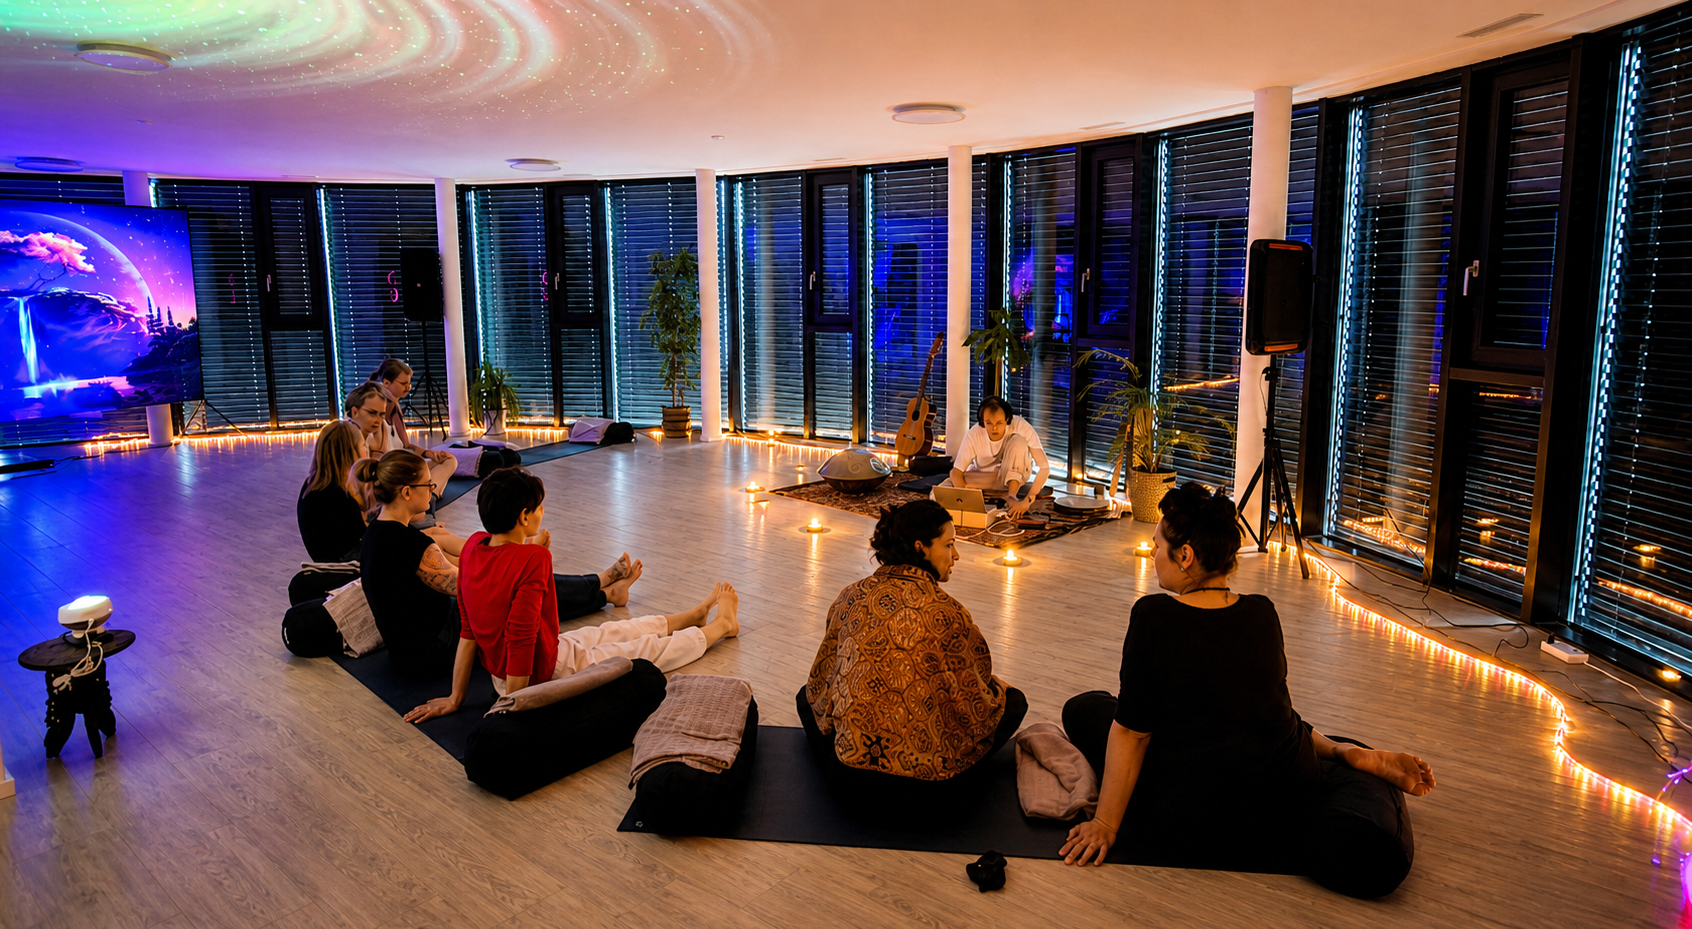
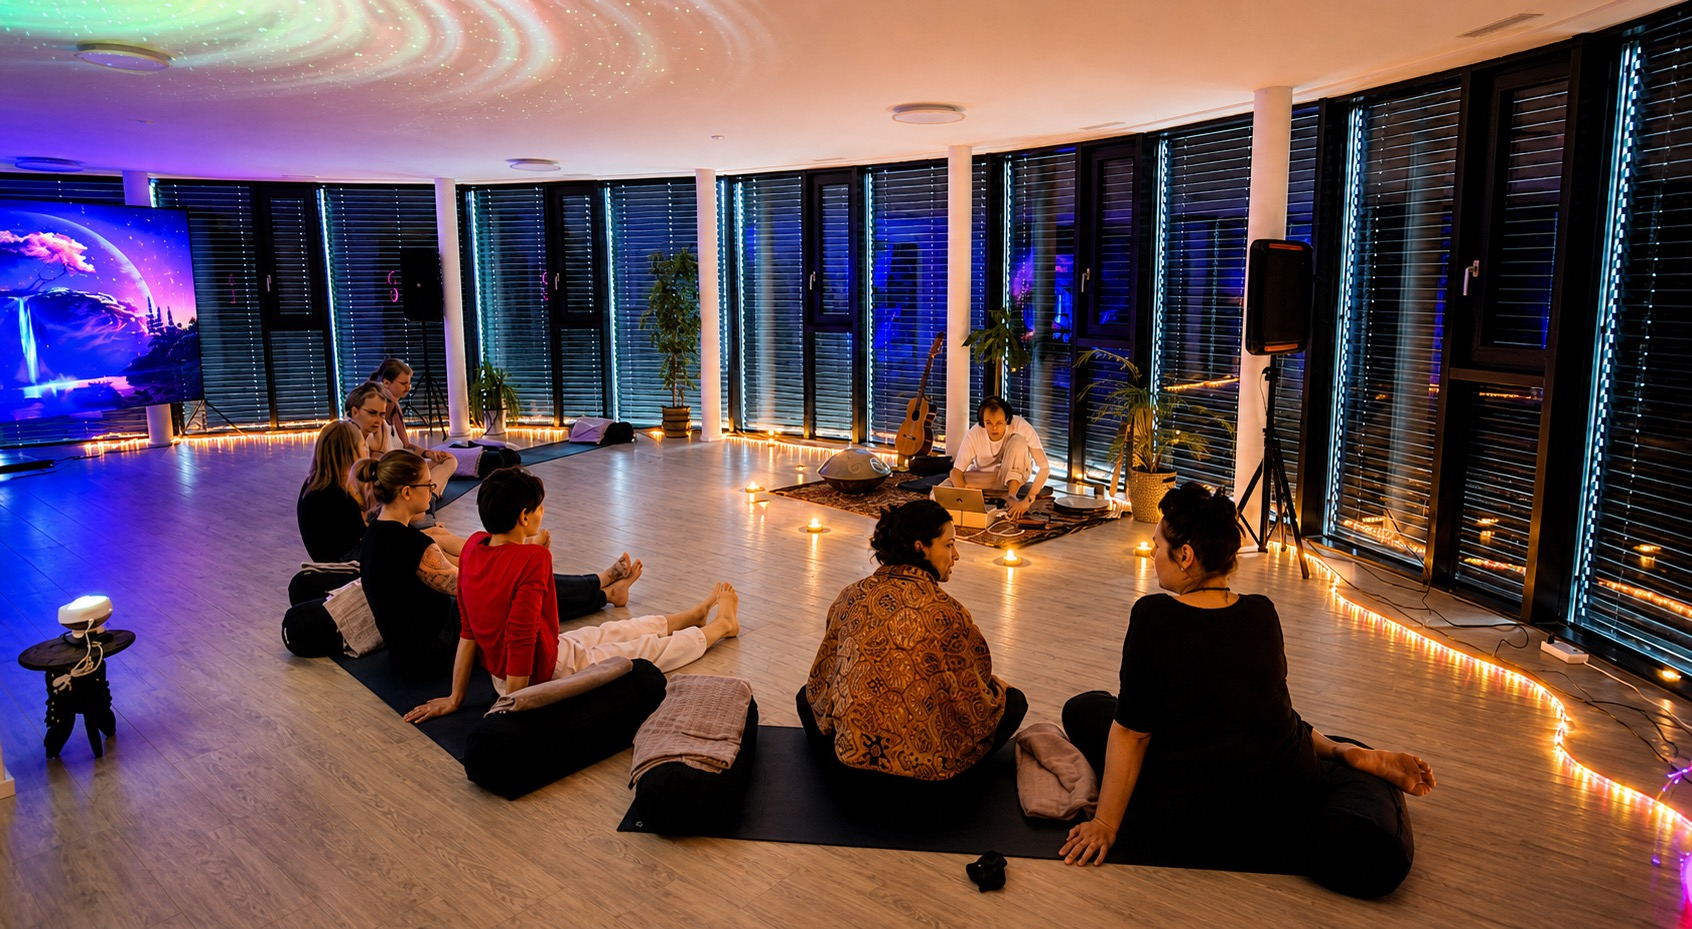
Optimisation images + reconnexion Sanity (témoignages)
- Images : conversion PNG→JPG + compression (27 Mo → 5 Mo)
- cms.js : adapte le rendu des témoignages à la nouvelle grille .tcards
- Sanity seed : 12 vrais témoignages du site (remplace les 4 placeholders)
- Schema temoignage : descriptions actualisées (grille au lieu de carrousel)

diff --git a/index.html b/index.html
@@ -259,7 +259,7 @@
 
         <article class="disc2-card gs-reveal">
           <div class="disc2-media gs-img-reveal">
-            <img src="public/images/cours-collectif-1.png" alt="Cours de Pilates Tonus en action chez Amarte" loading="lazy" class="gs-img-inner" />
+            <img src="public/images/cours-collectif-1.jpg" alt="Cours de Pilates Tonus en action chez Amarte" loading="lazy" class="gs-img-inner" />
           </div>
           <div class="disc2-body">
             <h3 class="disc2-name">Pilates Tonus</h3>
@@ -273,7 +273,7 @@
 
         <article class="disc2-card gs-reveal">
           <div class="disc2-media gs-img-reveal">
-            <img src="public/images/cours-collectif-2.png" alt="Cours de Yoga Flow en action chez Amarte" loading="lazy" class="gs-img-inner" />
+            <img src="public/images/cours-collectif-2.jpg" alt="Cours de Yoga Flow en action chez Amarte" loading="lazy" class="gs-img-inner" />
           </div>
           <div class="disc2-body">
             <h3 class="disc2-name">Yoga Flow</h3>
@@ -287,7 +287,7 @@
 
         <article class="disc2-card gs-reveal">
           <div class="disc2-media gs-img-reveal">
-            <img src="public/images/salle-tapis.png" alt="Cours de Pilates Fondation en action chez Amarte" loading="lazy" class="gs-img-inner" />
+            <img src="public/images/salle-tapis.jpg" alt="Cours de Pilates Fondation en action chez Amarte" loading="lazy" class="gs-img-inner" />
           </div>
           <div class="disc2-body">
             <h3 class="disc2-name">Pilates Fondation</h3>
@@ -301,7 +301,7 @@
 
         <article class="disc2-card gs-reveal">
           <div class="disc2-media gs-img-reveal">
-            <img src="public/images/salle-ensemble.png" alt="Cours de Yogilates en action chez Amarte" loading="lazy" class="gs-img-inner" />
+            <img src="public/images/salle-ensemble.jpg" alt="Cours de Yogilates en action chez Amarte" loading="lazy" class="gs-img-inner" />
           </div>
           <div class="disc2-body">
             <h3 class="disc2-name">Yogilates</h3>

diff --git a/location.html b/location.html
@@ -16,9 +16,9 @@
   <meta property="og:title" content="Location Salle Bien-Être | Amarte Épalinges" />
   <meta property="og:description" content="Salle lumineuse 120 m² avec baie vitrée, cuisine, douche, équipements yoga. Dès CHF 60/h." />
   <meta property="og:url" content="https://amarte.ch/location.html" />
-  <meta property="og:image" content="https://amarte.ch/public/images/salle-ensemble.png" />
+  <meta property="og:image" content="https://amarte.ch/public/images/salle-ensemble.jpg" />
   <meta name="twitter:card" content="summary_large_image" />
-  <meta name="twitter:image" content="https://amarte.ch/public/images/salle-ensemble.png" />
+  <meta name="twitter:image" content="https://amarte.ch/public/images/salle-ensemble.jpg" />
 
   <script type="application/ld+json">
   {
@@ -36,7 +36,7 @@
     "@type":"Product",
     "name":"Location Salle Amarte — 120 m²",
     "description":"Salle bien-être lumineuse de 120 m² à Épalinges avec baie vitrée en arc de cercle, cuisine équipée, douche, équipements yoga complets.",
-    "image":"https://amarte.ch/public/images/salle-ensemble.png",
+    "image":"https://amarte.ch/public/images/salle-ensemble.jpg",
     "brand":{"@type":"Brand","name":"Amarte Studio"},
     "offers":{
       "@type":"AggregateOffer",
@@ -143,7 +143,7 @@
   <!-- ===== SPACE DETAIL ===== -->
   <article class="location-space gs-reveal">
     <div class="location-space-img">
-      <img src="public/images/salle-ensemble.png" alt="Vue d'ensemble de la salle Amarte — 120 m², baie vitrée en arc de cercle" style="width:100%;height:100%;object-fit:cover;display:block;" />
+      <img src="public/images/salle-ensemble.jpg" alt="Vue d'ensemble de la salle Amarte — 120 m², baie vitrée en arc de cercle" style="width:100%;height:100%;object-fit:cover;display:block;" />
     </div>
     <div class="location-space-content">
       <p class="location-space-num">120 m²</p>

diff --git a/js/cms.js b/js/cms.js
@@ -119,8 +119,28 @@
   function renderTemoignages(temoignages) {
     if (!temoignages || temoignages.length === 0) return;
 
-    // Le carrousel est piloté par main.js (window.amarteInitTesti).
-    // On le ré-initialise avec les données Sanity (textContent = sûr).
+    // Nouvelle structure — grille de cartes (.tcards / .tcard)
+    const grid = document.querySelector('.tcards');
+    if (grid) {
+      const avatarVariants = ['tav-a','tav-b','tav-c','tav-d','tav-e','tav-f','tav-g','tav-h'];
+      grid.innerHTML = temoignages.map((t, idx) => {
+        const auteur   = (t.auteur || '').trim();
+        const initiale = (auteur[0] || '?').toUpperCase();
+        const variant  = avatarVariants[idx % avatarVariants.length];
+        return `
+          <div class="tcard">
+            <div class="stars" aria-hidden="true">★★★★★</div>
+            <p class="tq">« ${esc(t.texte || '')} »</p>
+            <div class="twho">
+              <span class="tav ${variant}">${esc(initiale)}</span>
+              <span><span class="tn">${esc(auteur)}</span><br><span class="tc">${esc(t.detail || '')}</span></span>
+            </div>
+          </div>`;
+      }).join('');
+      return;
+    }
+
+    // Ancienne structure — carrousel (window.amarteInitTesti dans main.js)
     if (typeof window.amarteInitTesti === 'function') {
       window.amarteInitTesti(temoignages);
     }

diff --git a/sanity/schemas/temoignage.js b/sanity/schemas/temoignage.js
@@ -1,4 +1,4 @@
-// ── TÉMOIGNAGE — carousel de la homepage ─────────────────────
+// ── TÉMOIGNAGE — grille de la homepage (~12 cartes) ──────────
 export const temoignage = {
   name:  'temoignage',
   title: 'Témoignage',
@@ -7,16 +7,17 @@ export const temoignage = {
   fields: [
     {
       name: 'texte', title: 'Texte du témoignage', type: 'text', rows: 4,
+      description: 'Sans les guillemets « » — ils sont ajoutés automatiquement sur le site.',
       validation: R => R.required().max(400),
     },
     {
-      name: 'auteur', title: 'Prénom + initiale', type: 'string',
-      description: 'Ex: Sophie M.',
+      name: 'auteur', title: 'Auteur', type: 'string',
+      description: 'Prénom (ou Prénom + Nom). Ex: Maria Martha. La 1ère lettre génère l\'avatar.',
       validation: R => R.required(),
     },
     {
       name: 'detail', title: 'Détail membre', type: 'string',
-      description: 'Ex: Membre depuis 6 mois · Yoga Flow',
+      description: 'Format : Discipline · ancienneté ou statut. Ex: Pilates · membre — Yoga & Pilates · +3 mois.',
     },
     {
       name: 'ordre', title: "Ordre d'affichage", type: 'number',
